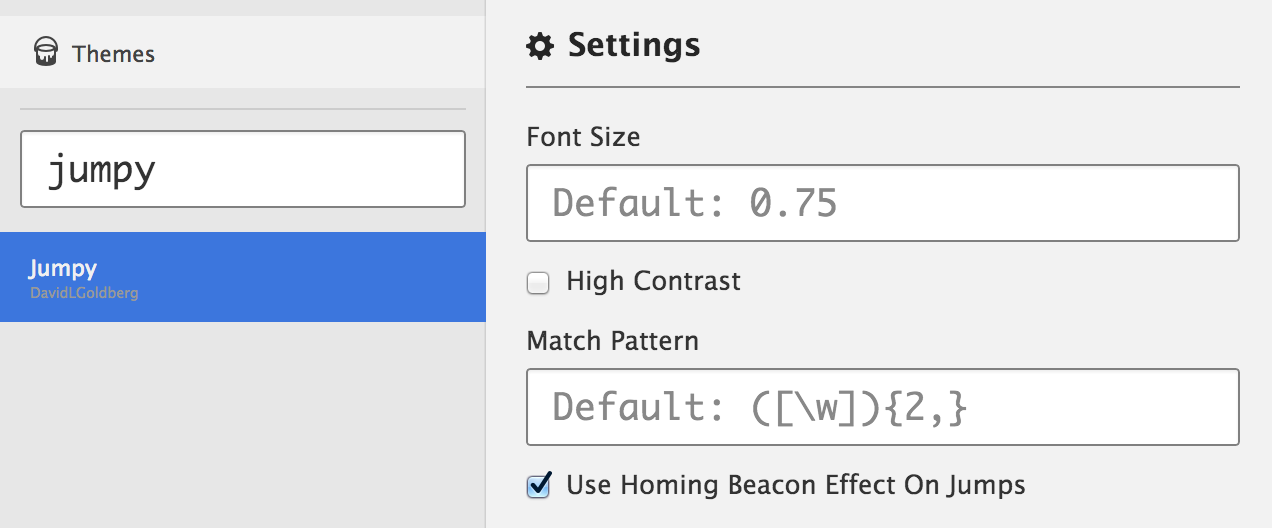
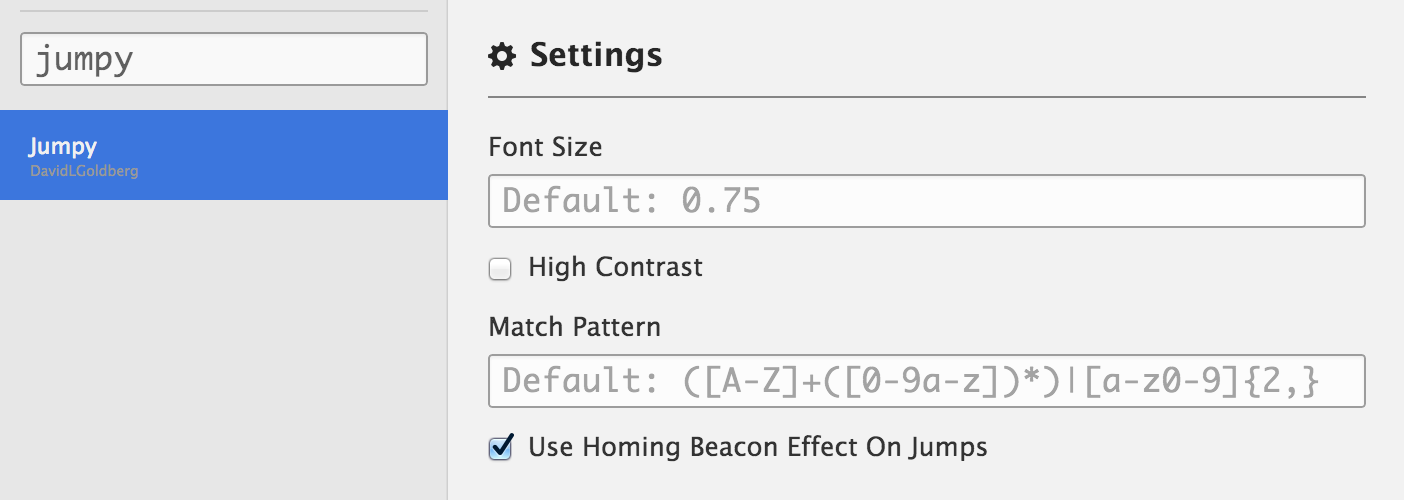
:memo: Updates README.md.
- Updates jumpy-settings.png.
- Adds note about neon-cursor not showing homing beacon effect.

Changed region(s): [[0.0, 0.06, 0.9811, 0.96], [0.0, 0.06, 0.3066, 0.18], [0.0307, 0.0, 0.3066, 0.03]]

diff --git a/README.md b/README.md
@@ -26,7 +26,7 @@ apm install jumpy
     * Recommended key mappings to replace 'f' in vim-mode see 'Settings' below.
 * Recommended custom cursors:
     * [slightly pulsing green cursor](https://gist.github.com/DavidLGoldberg/166646fce043710ef920 "green cursor gist")
-    * [neon-cursor](https://atom.io/packages/neon-cursor)
+    * [neon-cursor](https://atom.io/packages/neon-cursor) (This conflicts with the Jumpy homing beacon effect, but you *probably* won't need the beacon anymore!)
 
 ## Key Bindings
 ### Defaults
@@ -65,7 +65,7 @@ or enter ctrl+alt+cmd+l (lower case L).
 
 ![Jumpy example](https://raw.githubusercontent.com/DavidLGoldberg/jumpy/master/_images/jumpy-high-contrast-font-camel.png)
 
-(image after settings set to .85 font size, high contrast, and ([A-Z]+([0-9a-z])*)|[a-z0-9]{2,} a camel case matching pattern)
+(image after settings set to .85 font size, high contrast, and default camel case matching pattern)
 
 ### 'vim-mode' Users (Strongly Recommended Override)
 Put this override in your **'Atom'** -> **'Open Your Keymap'** settings:
